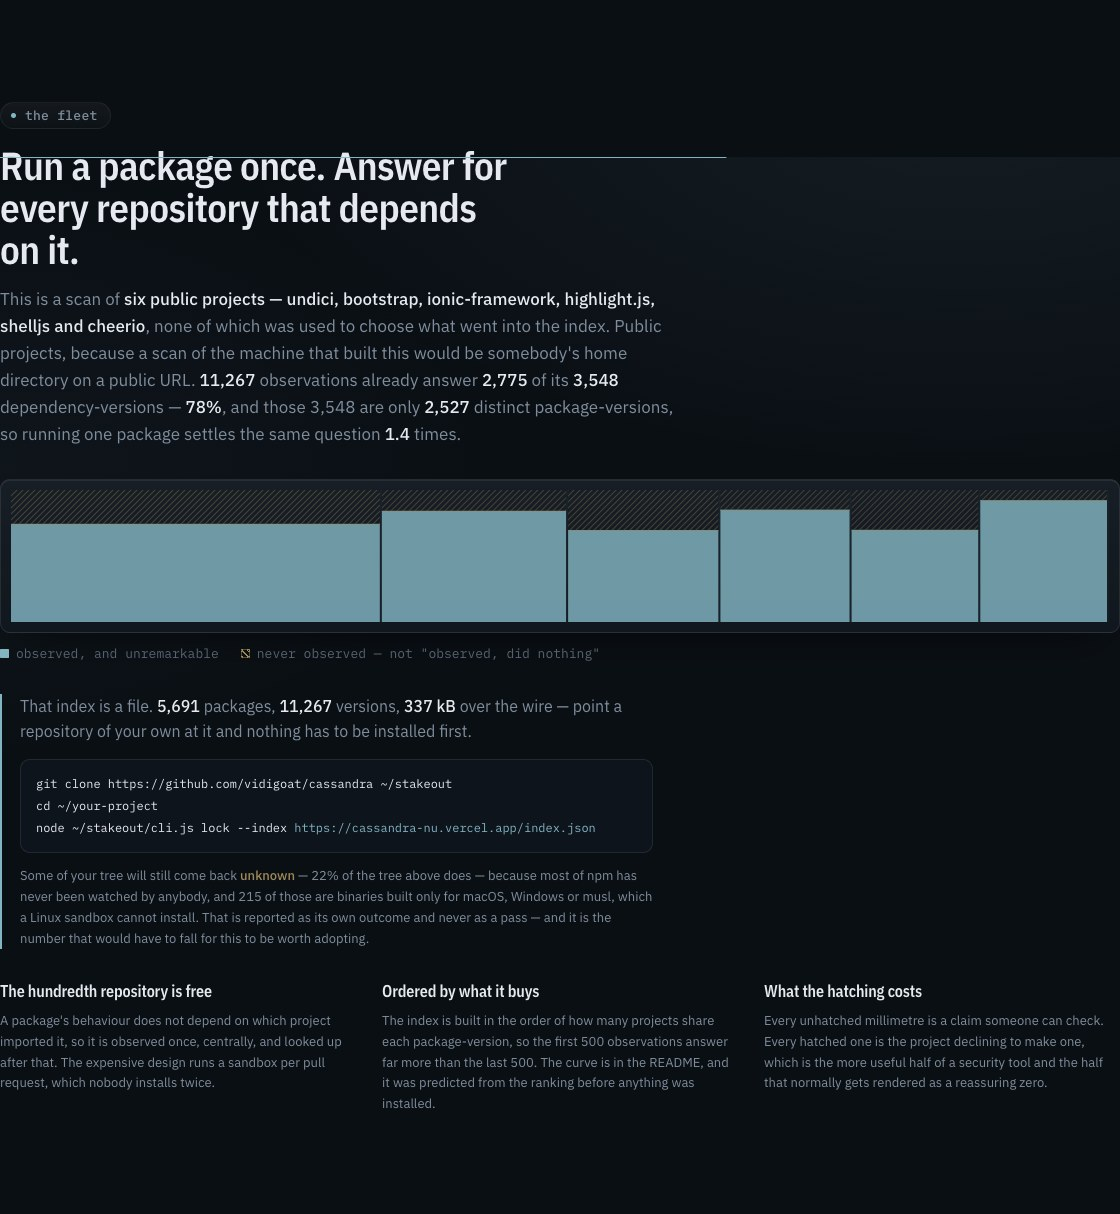
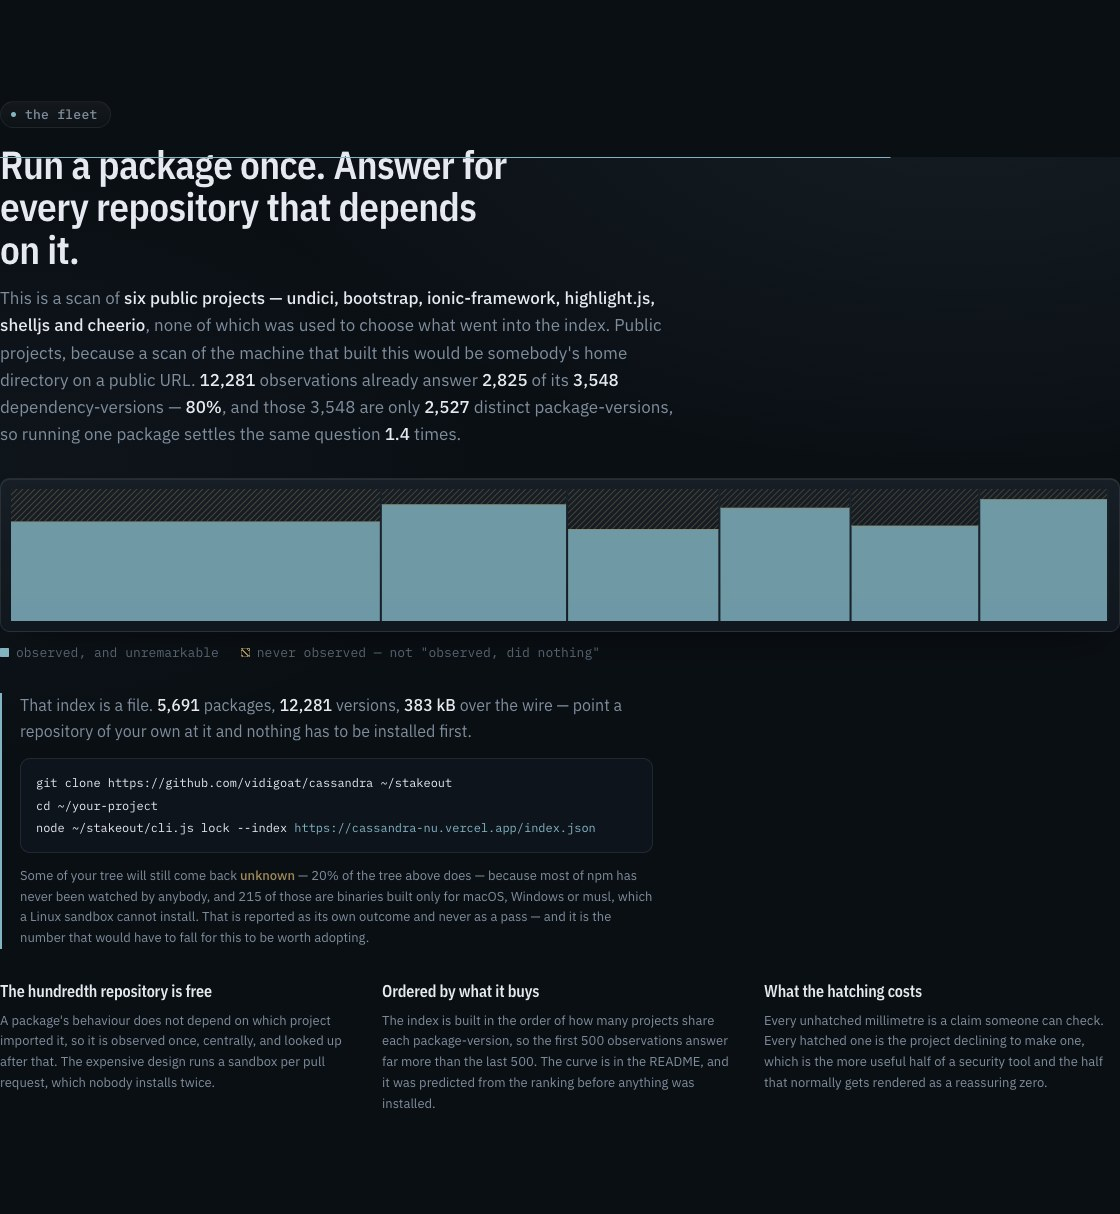
images from the live site: the fleet at 80%, and the release watch
Claude-Session: https://claude.ai/code/session_01JpGmWS643j9eVhpnW9xb1v

diff --git a/README.md b/README.md
@@ -77,6 +77,8 @@ it bundles, and **std-env 4.2.0** itself added JetBrains' Junie to that list. No
 nothing a version number would tell you — which is the kind of change this exists to put in front
 of somebody. Recorded in `docs/release-watch.json`; no model is called.
 
+<img src="docs/images/releases.jpg" alt="The release watch on the site: 1,272 of 1,287 newest releases unchanged; the 13 that read different environment variables, each with Nemotron's reading and the public record, jiti 2.7.0 among them" width="720">
+
 ### In Nebius Token Factory Sandboxes
 
 ```bash
